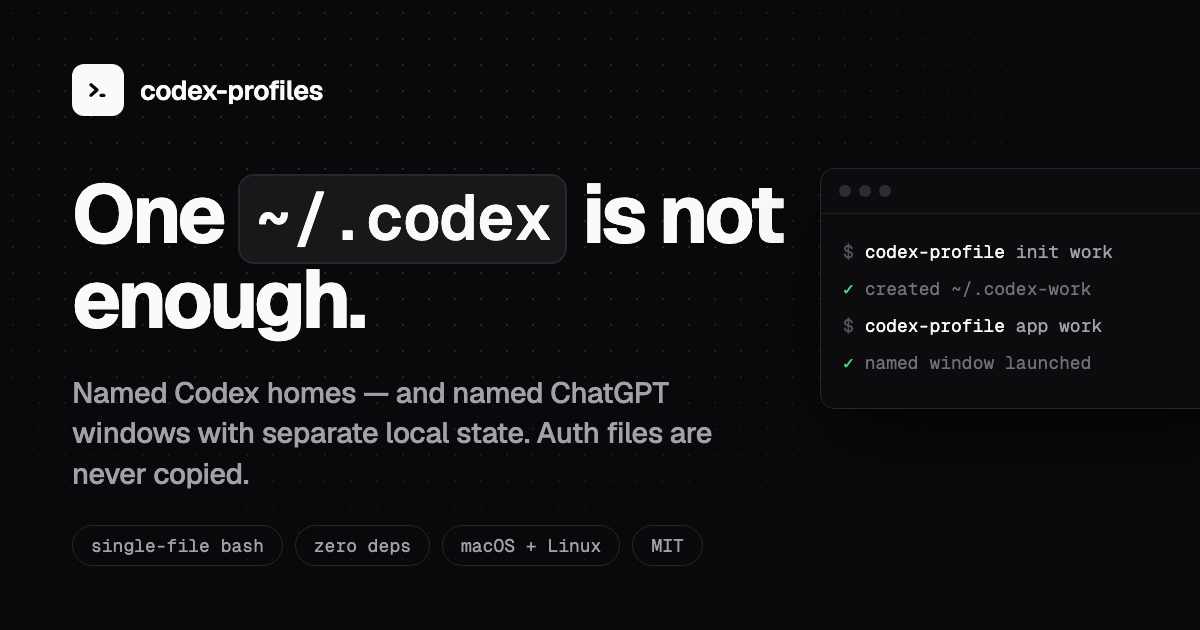
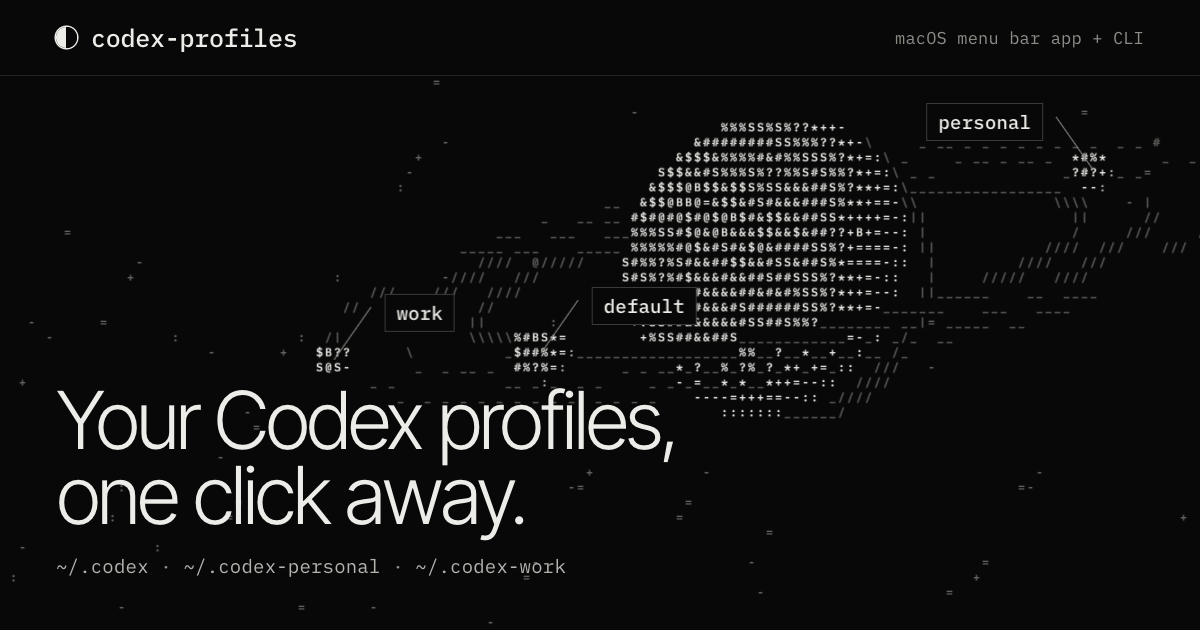
docs(feat): redraw the social preview in the Orbit design (#99)
Redraws docs/og-image.png to match the Orbit site: the ASCII planet with its default, personal and work moons, drawn by the page's own WebGL engine, with the headline and the three Codex homes. Adds its HTML source in scripts/og-image.html and updates the image alt text and the changelog.

diff --git a/scripts/og-image.html b/scripts/og-image.html
@@ -1,104 +1,106 @@
 <!doctype html>
-<html lang="en">
+<html lang="en" class="js">
 <head>
 <meta charset="utf-8">
 <!--
   Source for docs/og-image.png (1200x630 social card).
-  Regenerate with headless Chrome:
+  The orbit is drawn by the site's own WebGL engine, read from docs/index.html
+  at render time with its clock frozen, so the card follows the live page.
+  Regenerate with headless Chrome from the repository root:
 
-  "/Applications/Google Chrome.app/Contents/MacOS/Google Chrome" --headless=new --disable-gpu \
-    --screenshot="$PWD/docs/og-image.png" --window-size=1200,630 --hide-scrollbars \
-    --virtual-time-budget=10000 "file://$PWD/scripts/og-image.html"
+  "/Applications/Google Chrome.app/Contents/MacOS/Google Chrome" --headless=new \
+    --allow-file-access-from-files --use-angle=metal --hide-scrollbars \
+    --window-size=1200,630 --virtual-time-budget=10000 \
+    --screenshot="$PWD/docs/og-image.png" "file://$PWD/scripts/og-image.html"
 -->
 <link rel="preconnect" href="https://fonts.googleapis.com">
 <link rel="preconnect" href="https://fonts.gstatic.com" crossorigin>
-<link rel="stylesheet" href="https://fonts.googleapis.com/css2?family=Geist:wght@500;600;700&family=Geist+Mono:wght@400;500;600&display=swap">
+<link rel="stylesheet" href="https://fonts.googleapis.com/css2?family=IBM+Plex+Mono:wght@400;500&family=Inter+Tight:wght@300&display=block">
 <style>
-  * { margin: 0; padding: 0; box-sizing: border-box; }
-  html, body { width: 1200px; height: 630px; overflow: hidden; }
-  body {
-    position: relative;
-    font-family: "Geist", -apple-system, sans-serif;
-    background: #09090b;
-    color: #fafafa;
+  :root {
+    color-scheme: dark;
+    --bg: #080808;
+    --ink: #ECECE8;
+    --soft: #B4B4AF;
+    --mute: #8C8C87;
+    --line: #222220;
+    --line-2: #3A3A38;
+    --sans: 'Inter Tight', 'Helvetica Neue', Arial, sans-serif;
+    --mono: 'IBM Plex Mono', ui-monospace, Menlo, monospace;
   }
-  .dots {
-    position: absolute; inset: 0;
-    background-image: radial-gradient(#26262b 1px, transparent 1px);
-    background-size: 26px 26px;
-    -webkit-mask-image: radial-gradient(ellipse 85% 90% at 35% 30%, #000 25%, transparent 75%);
-    mask-image: radial-gradient(ellipse 85% 90% at 35% 30%, #000 25%, transparent 75%);
-  }
-  .card { position: relative; z-index: 1; height: 100%; padding: 64px 72px; display: flex; flex-direction: column; }
-  .brand { display: flex; align-items: center; gap: 16px; }
-  .tile { width: 52px; height: 52px; border-radius: 12px; background: #fafafa; display: grid; place-items: center; }
-  .tile svg { width: 30px; height: 30px; }
-  .brand .name { font-weight: 600; font-size: 27px; letter-spacing: -0.01em; }
-  h1 {
-    margin-top: 56px;
-    font-weight: 700;
-    font-size: 82px;
-    line-height: 1.04;
-    letter-spacing: -0.045em;
-    max-width: 780px;
-  }
-  h1 .code {
-    font-family: "Geist Mono", monospace;
-    font-weight: 600;
-    font-size: 0.78em;
-    letter-spacing: -0.02em;
-    background: #18181b;
-    border: 2px solid #26262b;
-    border-radius: 16px;
-    padding: 0 0.22em 0.05em;
-    vertical-align: 0.05em;
-    color: #fafafa;
-  }
-  .sub { margin-top: 30px; font-size: 29px; font-weight: 500; color: #a1a1aa; max-width: 700px; line-height: 1.4; letter-spacing: -0.01em; }
-  .badges { margin-top: auto; display: flex; gap: 12px; font-family: "Geist Mono", monospace; font-size: 18px; color: #a1a1aa; }
-  .badges span { border: 1.5px solid #26262b; border-radius: 999px; padding: 8px 18px; }
-  .term {
-    position: absolute; right: -50px; top: 168px; z-index: 2;
-    width: 430px; border-radius: 14px;
-    background: #0c0c0e; border: 1.5px solid #26262b;
-    box-shadow: 0 30px 80px -20px rgba(0, 0, 0, 0.8);
-    font-family: "Geist Mono", monospace; font-size: 18px;
-  }
-  .term-bar { display: flex; gap: 8px; padding: 16px 18px; border-bottom: 1.5px solid #1f1f23; }
-  .term-bar i { width: 12px; height: 12px; border-radius: 50%; background: #2c2c32; }
-  .term-body { padding: 20px 22px 26px; line-height: 2.05; color: #d4d4d8; }
-  .pl { color: #52525b; } .cmd { color: #fafafa; } .arg { color: #a1a1aa; } .ok { color: #4ade80; } .out { color: #71717a; }
+  * { box-sizing: border-box; }
+  html, body { width: 1200px; height: 630px; margin: 0; overflow: hidden; background: var(--bg); }
+  body { position: relative; color: var(--ink); font-family: var(--sans); font-feature-settings: 'calt' 0; -webkit-font-smoothing: antialiased; }
+
+  .field { position: absolute; inset: 0; display: block; width: 100%; height: 100%; }
+  /* The engine sizes the planet to this stage's height and centres it here. */
+  .stage { position: absolute; top: -30px; left: 180px; width: 1200px; height: 600px; }
+
+  .lab { position: absolute; top: 0; left: 0; will-change: transform; }
+  .lab > div { position: absolute; top: -66px; left: 50px; padding: 6px 11px; background: var(--bg); border: 1px solid var(--line-2); font: 500 19px var(--mono); letter-spacing: 0.01em; white-space: nowrap; }
+  .lab[data-side="l"] > div { right: 50px; left: auto; }
+  .lab i { position: absolute; top: 0; left: 0; width: 1px; height: 64px; background: var(--mute); transform: rotate(-145deg); transform-origin: 0 0; }
+  .lab[data-side="l"] i { transform: rotate(145deg); }
+  /* Every moon in this frame sits clear of the planet, so keep each label at full ink. */
+  .lab { opacity: 1 !important; }
+
+  .top { position: absolute; top: 0; right: 0; left: 0; display: flex; justify-content: space-between; align-items: center; height: 76px; padding: 0 56px; border-bottom: 1px solid var(--line); background: var(--bg); }
+  .brand { display: inline-flex; align-items: center; gap: 14px; font: 500 25px var(--mono); letter-spacing: -0.01em; }
+  .brand-mark { width: 21px; height: 21px; border-radius: 50%; background: linear-gradient(90deg, var(--ink) 50%, var(--bg) 50%); box-shadow: 0 0 0 1.5px var(--ink); }
+  .top-cap { font: 400 17px var(--mono); letter-spacing: 0.01em; color: var(--mute); }
+
+  .foot { position: absolute; bottom: 52px; left: 56px; display: flex; flex-direction: column; gap: 22px; }
+  .foot::before { content: ''; position: absolute; inset: -40px -90px -52px -56px; z-index: -1; background: radial-gradient(ellipse 60% 70% at 40% 62%, rgba(8, 8, 8, 0.92), rgba(8, 8, 8, 0.6) 55%, rgba(8, 8, 8, 0) 100%); }
+  h1 { margin: 0; font-weight: 300; font-size: 80px; line-height: 0.94; letter-spacing: -0.05em; }
+  .paths { margin: 0; font: 400 19px var(--mono); letter-spacing: 0.01em; color: var(--soft); }
+  .paths b { font-weight: 400; color: var(--mute); }
+  .err { position: absolute; top: 96px; left: 56px; font: 16px var(--mono); }
 </style>
 </head>
 <body>
-  <div class="dots"></div>
-  <div class="term">
-    <div class="term-bar"><i></i><i></i><i></i></div>
-    <div class="term-body">
-      <div><span class="pl">$</span> <span class="cmd">codex-profile</span> <span class="arg">init work</span></div>
-      <div><span class="ok">✓</span> <span class="out">created ~/.codex-work</span></div>
-      <div><span class="pl">$</span> <span class="cmd">codex-profile</span> <span class="arg">app work</span></div>
-      <div><span class="ok">✓</span> <span class="out">named window launched</span></div>
-    </div>
+  <canvas class="field" data-ascii-gl="orbit" data-tone="dark" data-stage="og" aria-hidden="true"></canvas>
+  <div class="stage" data-ascii-stage="og"></div>
+  <div class="lab" data-orbit-label="0"><i></i><div>default</div></div>
+  <div class="lab" data-orbit-label="1"><i></i><div>personal</div></div>
+  <div class="lab" data-orbit-label="2"><i></i><div>work</div></div>
+  <header class="top">
+    <span class="brand"><span class="brand-mark"></span>codex-profiles</span>
+    <span class="top-cap">macOS menu bar app + CLI</span>
+  </header>
+  <div class="foot">
+    <h1>Your Codex profiles,<br>one click away.</h1>
+    <p class="paths">~/.codex <b>·</b> ~/.codex-personal <b>·</b> ~/.codex-work</p>
   </div>
-  <div class="card">
-    <div class="brand">
-      <div class="tile">
-        <svg viewBox="0 0 64 64" xmlns="http://www.w3.org/2000/svg">
-          <path d="M17 21l13 11-13 11" fill="none" stroke="#09090b" stroke-width="7" stroke-linecap="round" stroke-linejoin="round"/>
-          <rect x="35" y="40" width="13" height="7" rx="3.5" fill="#09090b"/>
-        </svg>
-      </div>
-      <span class="name">codex-profiles</span>
-    </div>
-    <h1>One <span class="code">~/.codex</span> is not enough.</h1>
-    <p class="sub">Named Codex homes — and named ChatGPT windows with separate local state. Auth files are never copied.</p>
-    <div class="badges">
-      <span>single-file bash</span>
-      <span>zero deps</span>
-      <span>macOS + Linux</span>
-      <span>MIT</span>
-    </div>
-  </div>
+  <script>
+  (() => {
+    // 608.8 s into the page's orbit: all three moons clear of the planet and
+    // the headline, with the light turned towards the viewer.
+    const frozen = 'const t = 608.8;';
+    const clock = 'const t = live ? (now - f.start) / 1000 : 6;';
+    const fail = (msg) => {
+      const p = document.createElement('p');
+      p.className = 'err';
+      p.textContent = 'og-image: ' + msg;
+      document.body.appendChild(p);
+    };
+    // XHR, not fetch: Chrome reads file:// only through XHR, with
+    // --allow-file-access-from-files.
+    const xhr = new XMLHttpRequest();
+    xhr.open('GET', '../docs/index.html');
+    xhr.onload = () => {
+      const html = xhr.responseText;
+      const src = html.slice(html.lastIndexOf('<script>') + '<script>'.length, html.lastIndexOf('<\/script>'));
+      if (!src.includes(clock)) return fail('engine clock not found in docs/index.html');
+      const run = () => {
+        const s = document.createElement('script');
+        s.textContent = src.replace(clock, frozen);
+        document.body.appendChild(s);
+      };
+      document.fonts.load('500 52px "IBM Plex Mono"').then(run, run);
+    };
+    xhr.onerror = () => fail('could not read docs/index.html');
+    xhr.send();
+  })();
+  </script>
 </body>
 </html>

diff --git a/docs/index.html b/docs/index.html
@@ -22,12 +22,12 @@
   <meta property="og:image" content="https://ducksss.github.io/codex-profiles/og-image.png">
   <meta property="og:image:width" content="1200">
   <meta property="og:image:height" content="630">
-  <meta property="og:image:alt" content="codex-profiles - named Codex homes and ChatGPT desktop windows with separate local state">
+  <meta property="og:image:alt" content="codex-profiles: an ASCII planet orbited by three moons labelled default, personal and work, with the headline Your Codex profiles, one click away.">
   <meta name="twitter:card" content="summary_large_image">
   <meta name="twitter:title" content="Codex Profiles | macOS menu bar app and CLI">
   <meta name="twitter:description" content="Manage Codex profiles from a macOS menu bar app or CLI. Check Codex quota and open named ChatGPT windows with separate local state. Free and open source.">
   <meta name="twitter:image" content="https://ducksss.github.io/codex-profiles/og-image.png">
-  <meta name="twitter:image:alt" content="codex-profiles - named Codex homes and ChatGPT desktop windows with separate local state">
+  <meta name="twitter:image:alt" content="codex-profiles: an ASCII planet orbited by three moons labelled default, personal and work, with the headline Your Codex profiles, one click away.">
   <script>document.documentElement.classList.add('js');</script>
   <link rel="preconnect" href="https://fonts.googleapis.com">
   <link rel="preconnect" href="https://fonts.gstatic.com" crossorigin>

diff --git a/CHANGELOG.md b/CHANGELOG.md
@@ -16,6 +16,9 @@ and this project follows semantic versioning for tagged releases.
   `codex-profile usage` and `workspace list` output. Static ASCII art replaces
   the scenes without WebGL or JavaScript, and the FAQ, project facts and safety
   boundaries stay in the HTML.
+- Redrew the link preview image to match: the site's ASCII planet and its
+  default, personal and work moons, drawn by the page's own WebGL engine, with
+  the headline and the three Codex homes.
 - Redesigned the macOS menu around profiles. Each profile now leads a group
   with its workspaces nested beneath it, replacing the profile filter, and a
   search selects its first match so Return's target is visible. Clicking a
